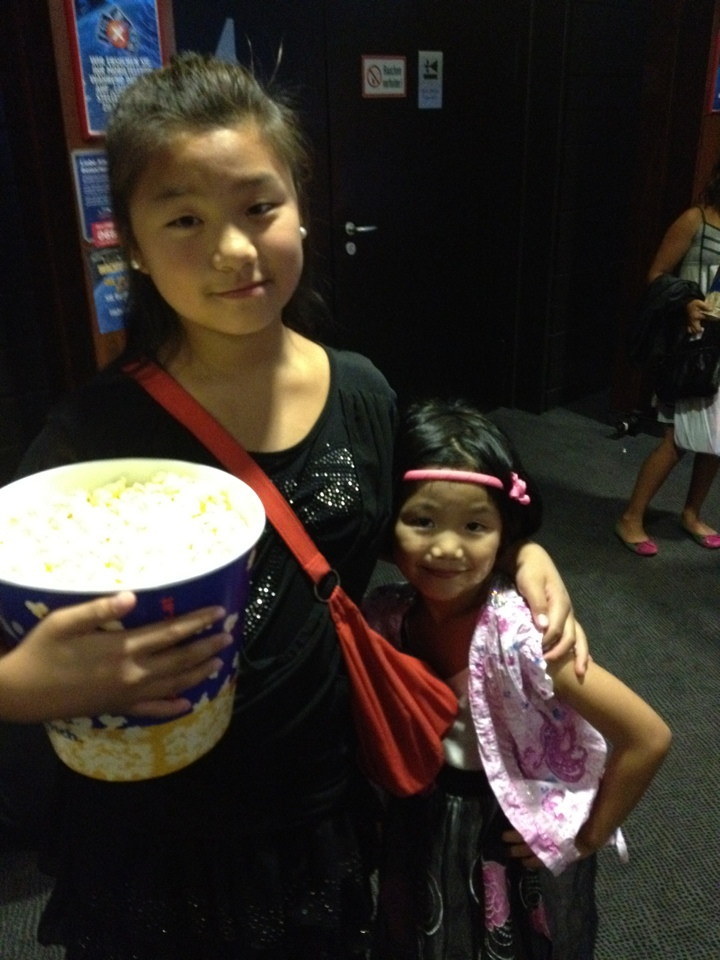
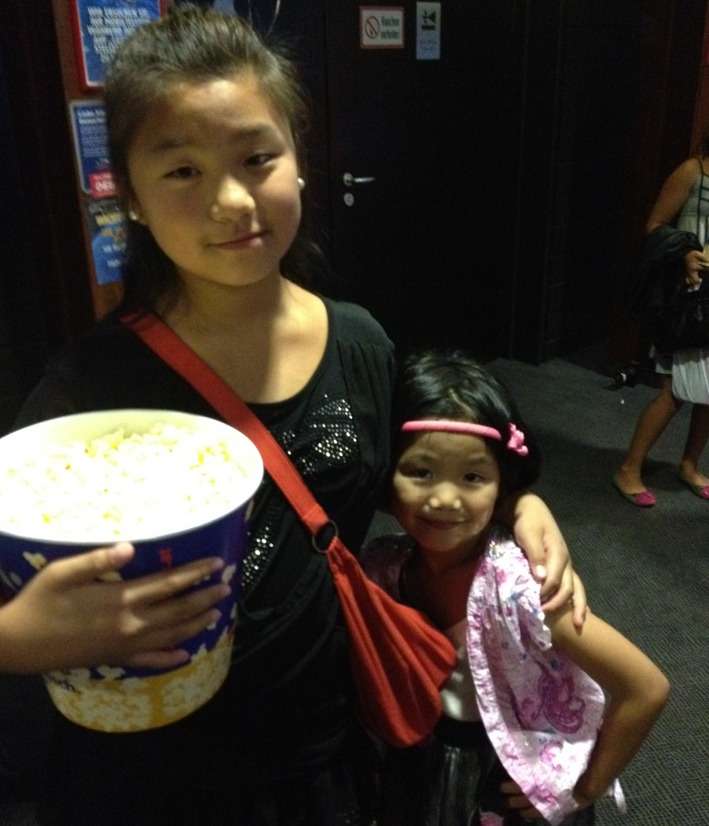
images

diff --git a/css/styles.css b/css/styles.css
@@ -29,6 +29,17 @@ body {
     height: auto; /* Maintain the original image height */
 }
 
+.sister-container {
+    width: 100%; /* Full width of the container */
+    text-align: center; /* Center the image horizontally */
+    margin: 0 0; /* Provide some spacing above and below */
+}
+
+.sister-container img {
+    width: 450px; /* Maintain the original image width */
+    height: auto; /* Maintain the original image height */
+}
+
 .satisfy-regular {
     font-family: 'Satisfy', cursive;
     font-weight: 400;
